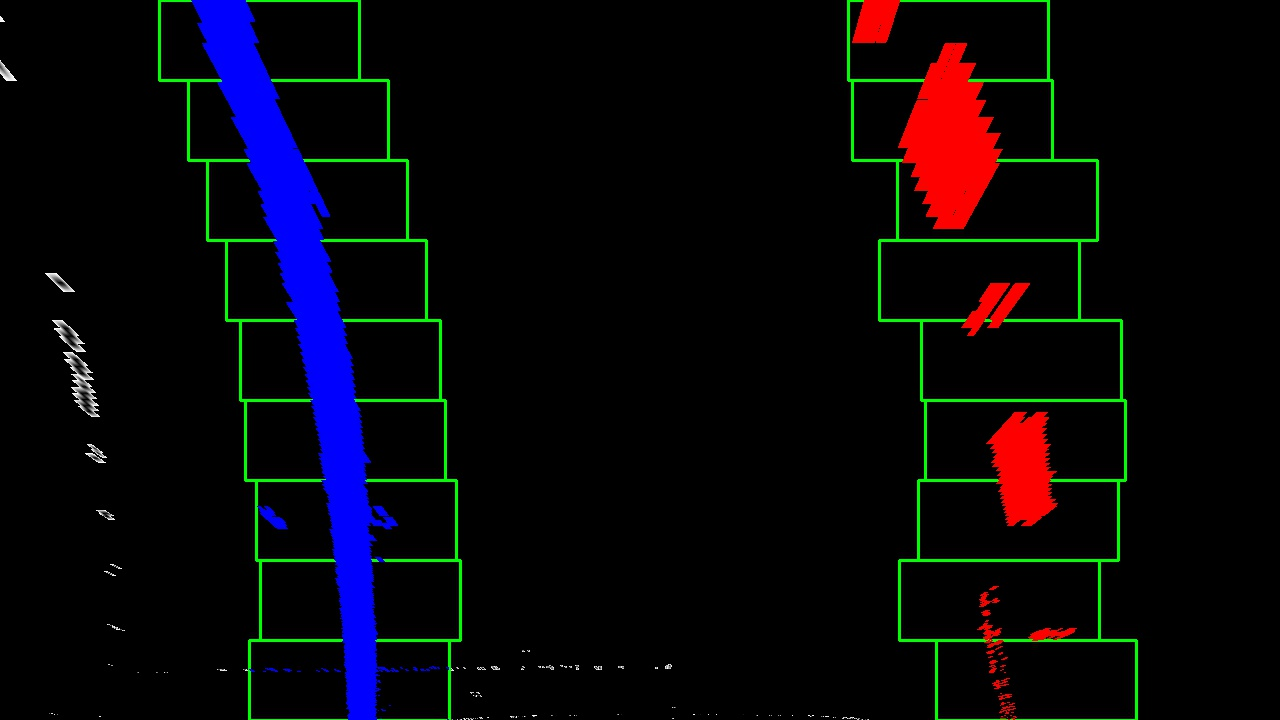
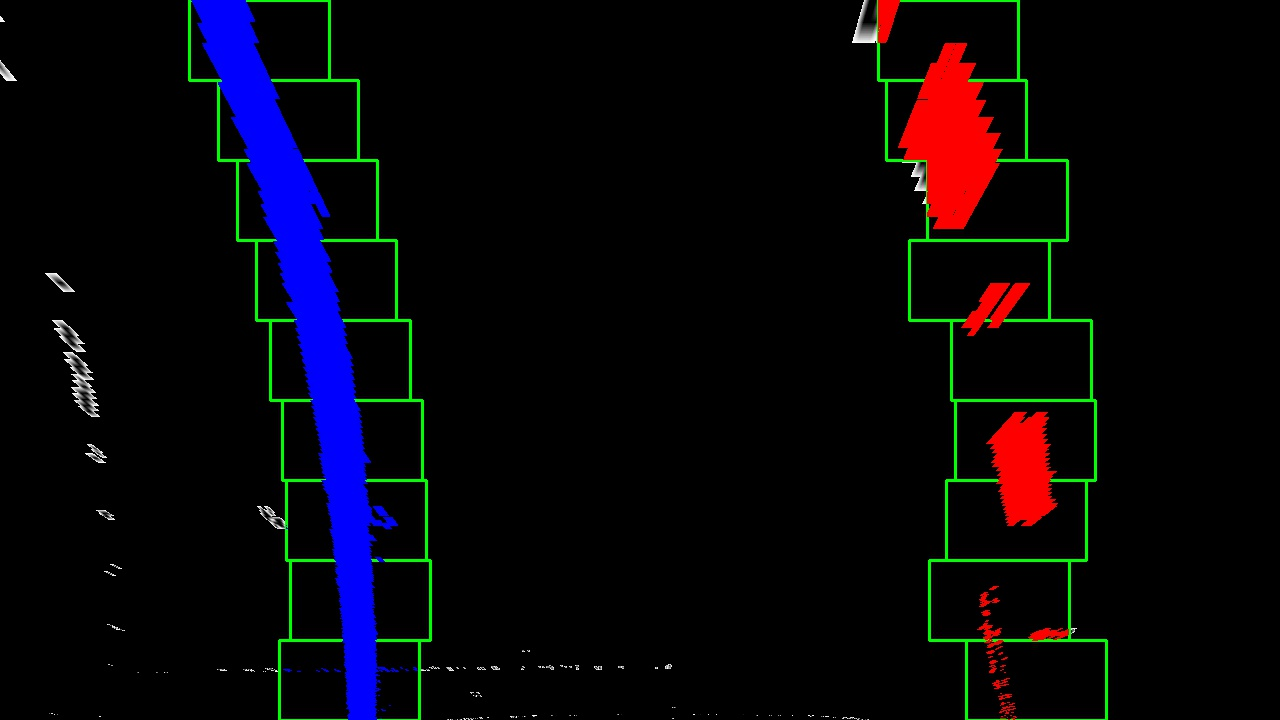
added line fit visual generation

diff --git a/pipeline/linefitter.py b/pipeline/linefitter.py
@@ -1,0 +1,167 @@
+
+
+import numpy as np
+import cv2
+
+class LineFitter():
+
+    def __init__(self, nwindows=9, margin=100, minpix=50):
+
+        # flag to speed up subsequent detection by region of interest
+        self.firstDetection = True
+
+        # number of windows for sliding
+        self.nwindows = nwindows
+
+        # margin is the width of the windows
+        self.margin = margin
+
+        # minimum pixels in window
+        self.minpix = minpix
+
+        #  second order polynomial fit
+        self.left_fit = None
+        self.right_fit = None
+
+        # non zero pixels in image
+        self.nonzerox = None
+        self.nonzeroy = None
+
+        self.ploty = None
+
+    def extract_polyfit(self, left_lane_inds, right_lane_inds, binWarped):
+
+        # Extract left and right line pixel positions
+        leftx = self.nonzerox[left_lane_inds]
+        lefty = self.nonzeroy[left_lane_inds]
+        rightx = self.nonzerox[right_lane_inds]
+        righty = self.nonzeroy[right_lane_inds]
+
+        # Fit a second order polynomial to each
+        self.left_fit = np.polyfit(lefty, leftx, 2)
+        self.right_fit = np.polyfit(righty, rightx, 2)
+
+        # Generate x and y values for plotting
+        ploty = np.linspace(0, binWarped.shape[0] - 1, binWarped.shape[0])
+        left_fitx = self.left_fit[0] * ploty ** 2 + self.left_fit[1] * ploty + self.left_fit[2]
+        right_fitx = self.right_fit[0] * ploty ** 2 + self.right_fit[1] * ploty + self.right_fit[2]
+        self.ploty = ploty # store in object
+
+        return left_fitx, right_fitx
+
+    def lane_extraction(self, binWarped, fname, visual=False):
+
+        # check if this is a first extraction or subsequent
+        # if subsequent go to quicker function
+        if self.firstDetection == False:
+            return self.next_lane_extraction(binWarped, fname, visual)
+
+        ### Finding Lines ###
+        # histogram of bottom half
+        # counts the number of 1's along each column
+        histogram = np.sum(binWarped[binWarped.shape[0]/2:,:],axis=0)
+
+        # img for visualization
+        out_img = np.dstack((binWarped, binWarped, binWarped))*255
+
+        # find peak of left and right of histogram
+        # peaks correspond to the starting point of left and right Lines
+        midpoint = np.int(histogram.shape[0]/2)
+        leftx_base = np.argmax(histogram[:midpoint])
+        rightx_base = np.argmax(histogram[midpoint:]) + midpoint
+
+        # Set height of windows
+        window_height = np.int(binWarped.shape[0]/self.nwindows)
+        # Identify the x and y positions of all nonzero pixels in the image
+        nonzero = binWarped.nonzero()
+        self.nonzeroy = np.array(nonzero[0])
+        self.nonzerox = np.array(nonzero[1])
+        # Current positions to be updated for each window
+        leftx_current = leftx_base
+        rightx_current = rightx_base
+        # Create empty lists to receive left and right lane pixel indices
+        left_lane_inds = []
+        right_lane_inds = []
+
+        # Step through the windows one by one
+        for window in range(self.nwindows):
+            # Identify window boundaries in x and y (and right and left)
+            win_y_low = binWarped.shape[0] - (window+1)*window_height
+            win_y_high = binWarped.shape[0] - window*window_height
+            win_xleft_low = leftx_current - self.margin
+            win_xleft_high = leftx_current + self.margin
+            win_xright_low = rightx_current - self.margin
+            win_xright_high = rightx_current + self.margin
+            # Draw the windows on the visualization image
+            cv2.rectangle(out_img,(win_xleft_low,win_y_low),(win_xleft_high,win_y_high),(0,255,0), 2)
+            cv2.rectangle(out_img,(win_xright_low,win_y_low),(win_xright_high,win_y_high),(0,255,0), 2)
+            # Identify the nonzero pixels in x and y within the window
+            good_left_inds = ((self.nonzeroy >= win_y_low) & (self.nonzeroy < win_y_high) & (self.nonzerox >= win_xleft_low) & (self.nonzerox < win_xleft_high)).nonzero()[0]
+            good_right_inds = ((self.nonzeroy >= win_y_low) & (self.nonzeroy < win_y_high) & (self.nonzerox >= win_xright_low) & (self.nonzerox < win_xright_high)).nonzero()[0]
+            # Append these indices to the lists
+            left_lane_inds.append(good_left_inds)
+            right_lane_inds.append(good_right_inds)
+            # If you found > minpix pixels, recenter next window on their mean position
+            if len(good_left_inds) > self.minpix:
+                leftx_current = np.int(np.mean(self.nonzerox[good_left_inds]))
+            if len(good_right_inds) > self.minpix:
+                rightx_current = np.int(np.mean(self.nonzerox[good_right_inds]))
+
+        # Concatenate the arrays of indices
+        left_lane_inds = np.concatenate(left_lane_inds)
+        right_lane_inds = np.concatenate(right_lane_inds)
+
+        self.firstDetection = False
+
+        left_fitx, right_fitx = self.extract_polyfit(left_lane_inds, right_lane_inds, binWarped)
+
+        if visual == True:
+            # output image for visualization
+            out_img[self.nonzeroy[left_lane_inds], self.nonzerox[left_lane_inds]] = [255, 0, 0]
+            out_img[self.nonzeroy[right_lane_inds], self.nonzerox[right_lane_inds]] = [0, 0, 255]
+            write_name = "../test_images/firstLEsample"+fname[-5:]
+            cv2.imwrite(write_name, out_img)
+
+        return left_fitx, right_fitx
+
+    def next_lane_extraction(self, binWarped, fname, visual=False):
+        # Assume you now have a new warped binary image
+        # from the next frame of video (also called "binWarped")
+        # It's now much easier to find line pixels!
+        nonzero = binWarped.nonzero()
+        self.nonzeroy = np.array(nonzero[0])
+        self.nonzerox = np.array(nonzero[1])
+
+        left_fit = self.left_fit
+        right_fit = self.right_fit
+
+        left_lane_inds = ((self.nonzerox > (left_fit[0]*(self.nonzeroy**2) + left_fit[1]*self.nonzeroy + left_fit[2] - self.margin)) & (self.nonzerox < (left_fit[0]*(self.nonzeroy**2) + left_fit[1]*self.nonzeroy + left_fit[2] + self.margin)))
+        right_lane_inds = ((self.nonzerox > (right_fit[0]*(self.nonzeroy**2) + right_fit[1]*self.nonzeroy + right_fit[2] - self.margin)) & (self.nonzerox < (right_fit[0]*(self.nonzeroy**2) + right_fit[1]*self.nonzeroy + right_fit[2] + self.margin)))
+
+        left_fitx, right_fitx = self.extract_polyfit(left_lane_inds, right_lane_inds, binWarped)
+
+        if visual == True:
+            # Create an image to draw on and an image to show the selection window
+            out_img = np.dstack((binWarped, binWarped, binWarped))*255
+            window_img = np.zeros_like(out_img)
+            # Color in left and right line pixels
+            out_img[self.nonzeroy[left_lane_inds], self.nonzerox[left_lane_inds]] = [255, 0, 0]
+            out_img[self.nonzeroy[right_lane_inds], self.nonzerox[right_lane_inds]] = [0, 0, 255]
+
+            # Generate a polygon to illustrate the search window area
+            # And recast the x and y points into usable format for cv2.fillPoly()
+            left_line_window1 = np.array([np.transpose(np.vstack([left_fitx-self.margin, self.ploty]))])
+            left_line_window2 = np.array([np.flipud(np.transpose(np.vstack([left_fitx+self.margin, self.ploty])))])
+            left_line_pts = np.hstack((left_line_window1, left_line_window2))
+            right_line_window1 = np.array([np.transpose(np.vstack([right_fitx-self.margin, self.ploty]))])
+            right_line_window2 = np.array([np.flipud(np.transpose(np.vstack([right_fitx+self.margin, self.ploty])))])
+            right_line_pts = np.hstack((right_line_window1, right_line_window2))
+
+            # Draw the lane onto the warped blank image
+            cv2.fillPoly(window_img, np.int_([left_line_pts]), (0,255, 0))
+            cv2.fillPoly(window_img, np.int_([right_line_pts]), (0,255, 0))
+            result = cv2.addWeighted(out_img, 1, window_img, 0.3, 0)
+            write_name = "../test_images/nextLEsample"+fname[-5:]
+            cv2.imwrite(write_name, result)
+
+        return left_fitx, right_fitx

diff --git a/pipeline/imagegen.py b/pipeline/imagegen.py
@@ -82,9 +82,14 @@ def window_mask(width, height, img_ref, center, level):
         max(0,int(center-width)):min(int(center+width),img_ref.shape[1])] = 1
     return output
 
-images = glob.glob("../test_images/test*.jpg")
+#images = glob.glob("../test_images/test*.jpg")
 #images = glob.glob("../test_images/straight*.jpg") # for perspective src calibration
 #images = glob.glob("../camera_cal/calibration1.jpg") # for undistort sample
+# below is a double frame to test first frame line extraction + subsequent frame extraction
+images = ["../test_images/test2.jpg","../test_images/test2.jpg"]
+
+# instantiate the linefitter to be used later for sliding window and plotting
+fitter = LineFitter(margin = 70, minpix = 34)
 
 for idx, fname in enumerate(images):
     # read in image
@@ -117,8 +122,7 @@ for idx, fname in enumerate(images):
     Minv = cv2.getPerspectiveTransform(dst, src)
     binWarped = cv2.warpPerspective(preproImage, M, img_size, flags=cv2.INTER_LINEAR)
 
-    fitter = LineFitter()
-    left_fitx, right_fitx = fitter.first_lane_extraction(binWarped, fname, visual=True)
+    left_fitx, right_fitx = fitter.lane_extraction(binWarped, fname, visual=True)
 
     # EXPORT -------------
 
